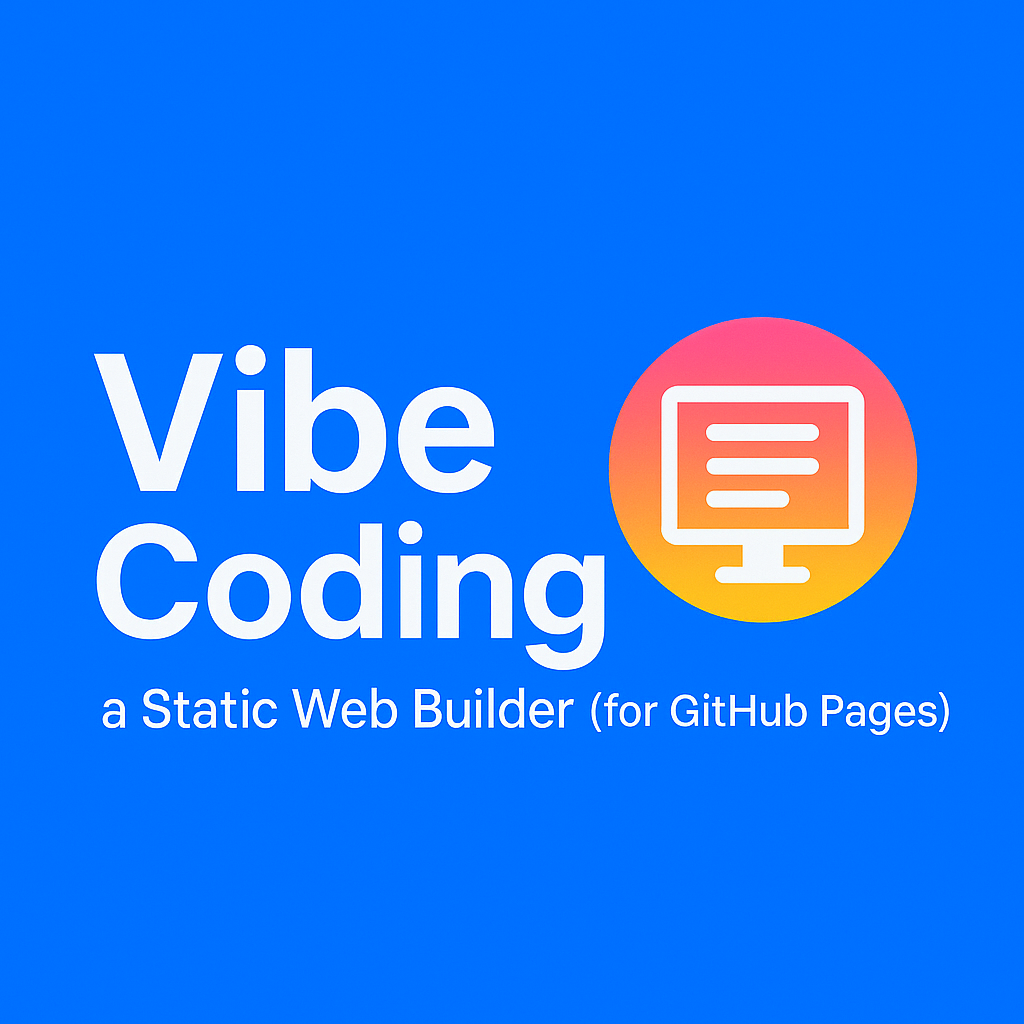
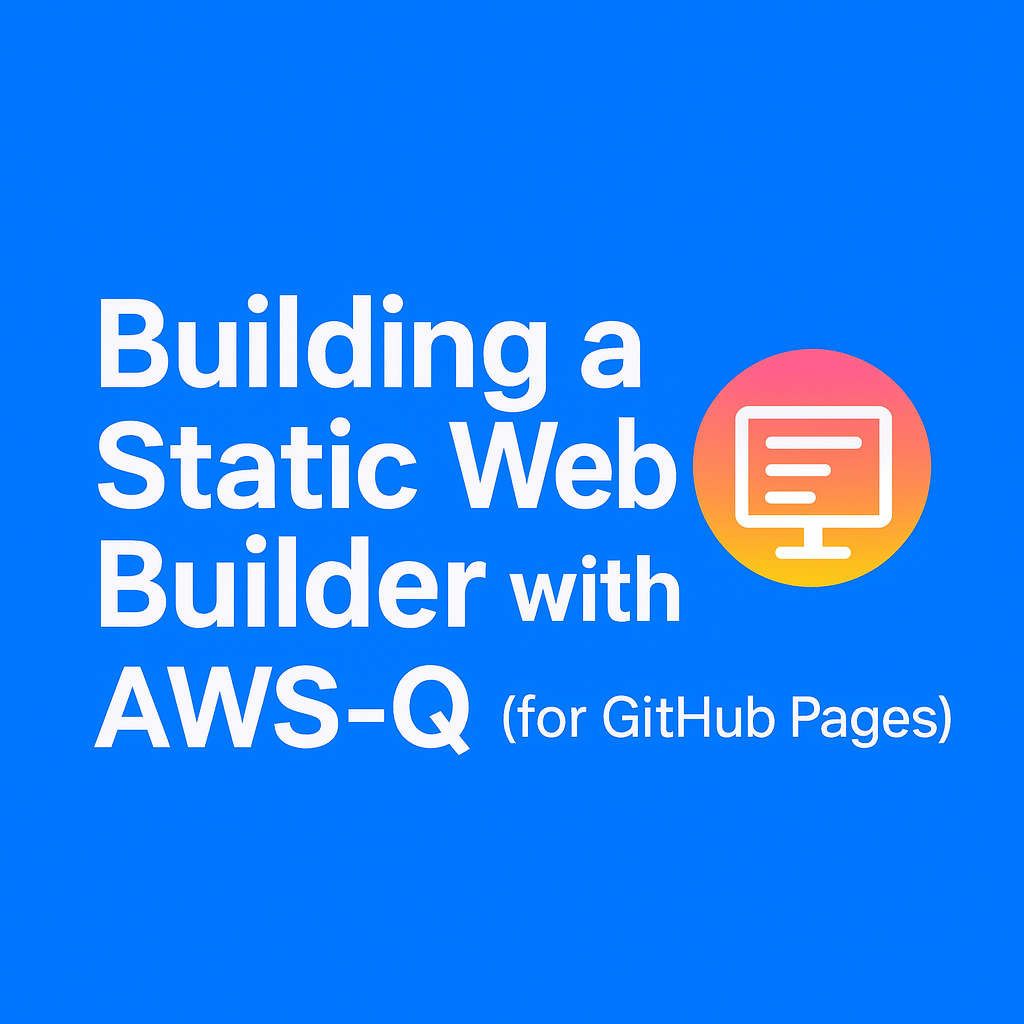
update blog title

Changed region(s): [[0.0938, 0.2812, 0.9375, 0.75]]

diff --git a/blogs/2025-08-12--stephen--Vibe-Coding-Web-Builder.html b/blogs/2025-08-12--stephen--Vibe-Coding-Web-Builder.html
@@ -3,7 +3,7 @@
 <head>
     <meta charset="UTF-8">
     <meta name="viewport" content="width=device-width, initial-scale=1.0">
-    <title>Vibe Coding a Static Web Builder (for Github Pages)</title>
+    <title>Building a Static Web Builder with AWS-Q (for Github Pages)</title>
     <meta name="description" content="Notes, projects, and updates from the Hilton crew.">
     <meta name="keywords" content="family, blog, updates, projects, adventures">
     <meta name="author" content="Stephen Hilton">
@@ -56,7 +56,7 @@
 <section class="markdown-section">
     <div class="markdown-content">
         
-        <h1 class="markdown-title">Vibe Coding a Static Web Builder (for Github Pages)</h1>
+        <h1 class="markdown-title">Building a Static Web Builder with AWS-Q (for Github Pages)</h1>
         
         
         
@@ -67,16 +67,17 @@
         <hr class="markdown-divider">
         
         
-        <p>I spent a Saturday afternoon building a tiny static webpage builder in Python with the newly released GPT-5. Version one (which you're reading now) is admittedly kind of ugly, but it also came together in just a few hours, and that’s the whole point: fast, clear progress beats perfect polish when you’re learning and shipping.</p>
-<p>After struggling thru the weirdness that was Jekyll and running into problem after problem, I decided - forget this, I'm going to see if GPT-5 can auto-generate a similar static webpage builder in less time than I burned floundering around Jekyll (spoiler: it can, but doesn't look as good). The concept was simple: read content from YAML/Markdown, run it through Jinja templates, and spit out clean HTML into a root/ folder you can serve with python -m http.server or upload to a github page. </p>
-<p>I started by writing a requirements document, getting the bare-bones on paper (er, digitally speaking) and having GPT-5 help me flesh out details and provide recommendations.  Once I was happy with the requirements, <strong>but before I submitted for code generation</strong> I asked GPT-5 what questions it had about the document... and it had many, eroding my previous happy-state.  After another 45mins of extending the document, I felt it was good enough to get started!</p>
-<p>I asked GPT-5 to sketch the skeleton: a sitegen package with build, clean, and init commands; a templates/ directory for base.html, home.html, blog_index.html, etc.; and a content/ directory where index.yaml, blogs.yaml, and people.yaml live alongside subfolders full of .md files. From there, it was a steady back-and-forth: I described how I wanted blog posts parsed (author and title from the filename), how the homepage hero should read CTAs, and how images in Markdown should resolve from a shared _images folder. GPT-5 handled the boilerplate fast.</p>
+        <p>I spent a Saturday afternoon building a tiny static webpage builder in Python with the new AWS-Q extension for VSCode. Version one (which you're reading now) could admittedly use some tweaking, but it also came together in just a few hours, and that’s the whole point: fast, clear progress beats perfect polish when you’re learning and shipping.</p>
+<p>After struggling thru the weirdness that was Jekyll and running into problem after problem, I decided, "if I'm. going to spend this much time, I should see if AWS-Q can just auto-generate a similar static webpage builder in less time than floundering around Jekyll" (spoiler: it can, but doesn't look as good). The concept was simple: read content from YAML/Markdown, run it through Jinja templates, and spit out clean HTML into a root/ folder you can serve with python -m http.server or upload to a github page. </p>
+<p>I started by writing a requirements document, getting the bare-bones on paper (er, digitally speaking) and having AWS-Q help me flesh out details and provide recommendations.  Once I was happy with the requirements, <strong>but before I submitted for code generation</strong> I asked AWS-Q what questions it had about the document... and it had many, eroding my previous happy-state.  After another 45mins of extending the document, I felt it was good enough to get started!</p>
+<p>I asked AWS-Q to sketch the skeleton: a sitegen package with build, clean, and init commands; a templates/ directory for base.html, home.html, blog_index.html, etc.; and a content/ directory where index.yaml, blogs.yaml, and people.yaml live alongside subfolders full of .md files. From there, it was a steady back-and-forth: I described how I wanted blog posts parsed (author and title from the filename), how the homepage hero should read CTAs, and how images in Markdown should resolve from a shared _images folder. AWS-Q handled the boilerplate fast.</p>
 <p>The first execution of the code had 1 error, and I had a copy/paste error (AI:1, human:1, tied game).  But after a little adjustment we were in business: index.html appeared, pages/blogs.html listed posts, and individual blog and people pages rendered from Markdown with a minimal header and footer.  We even got extras like sitemap.xml and robots.txt for free. </p>
-<p>Was it pretty? Not yet. The initial CSS looked like it had been borrowed from 2008, and the nav links huddled together like a single long word. But that’s the magic of a quick prototype—you can see the whole loop: schema → template → output. Now the improvements are obvious.</p>
-<p>Is this production-ready? Not yet. But in a couple hours, I went from nothing to a custom static generator I understand end-to-end. I also have learnings on how I'll structure the v2 (a project for a future Saturday): I'll likely get more prescriptive on the yaml, collapse many of the custom section types into fewer, more flexible options, and layer in more assumptions to comb out complexity. This is for simple, static, family type websites.   After that, I'm thinking MCP server!</p>
-<p>For now, I’m calling it a win. The first attempt may be ugly, but I did generate it faster than struggling with Jekyll.<br />
-Let me know what you think:</p>
-<p>https://github.com/Stephen-Hilton/familyhilton.com</p>
+<p>Was it pretty? Meh. The initial CSS looked like it had been borrowed from 2010, and the nav link hover-overs are a weird yellow. But that’s the magic of a quick prototype—you can see the whole loop: schema → template → output. Now the improvements are obvious.</p>
+<p>Production-ready isn't the point - in a couple hours, I went from nothing to a custom static generator I understand end-to-end. I also have learnings on how I'll structure the v2 (a project for a future Saturday): I'll likely expand yaml just a bit, collapse many of the custom section types into fewer, more flexible options, and layer in more assumptions to comb out complexity. This is for simple, static, family type websites, so simple is better.   After that, I'm thinking MCP server!</p>
+<p>This was initially deployed on Github pages, but with very little effort (and some help from AWS-Q in console) I was able to stand up the same static site on AWS.</p>
+<p>For now, I’m calling it a win. The first attempt may be ugly, but I was able to code it faster than struggling through Jekyll.  Let me know what you think:</p>
+<p>https://familyhilton.com (Github Pages)
+https://hilton.zone (AWS-S3)</p>
     </div>
 </section>
     </main>

diff --git a/blogs.html b/blogs.html
@@ -107,12 +107,12 @@
             <a href="blogs/2025-08-12--stephen--Vibe-Coding-Web-Builder.html" class="card-link">
                 
                 <div class="card-image">
-                    <img src="/src/images/2025-08-12--stephen--Vibe-Coding-Web-Builder.png" alt="Vibe Coding a Static Web Builder (for Github Pages)" class="card-img">
+                    <img src="/src/images/2025-08-12--stephen--Vibe-Coding-Web-Builder.png" alt="Building a Static Web Builder with AWS-Q (for Github Pages)" class="card-img">
                 </div>
                 
                 
                 <div class="card-content">
-                    <h3 class="card-title">Vibe Coding a Static Web Builder (for Github Pages)</h3>
+                    <h3 class="card-title">Building a Static Web Builder with AWS-Q (for Github Pages)</h3>
                     
                     <p class="card-description">Notes, projects, and updates from the Hilton crew.</p>
                     
@@ -177,12 +177,12 @@
             <a href="blogs/2025-08-12--stephen--Vibe-Coding-Web-Builder.html" class="tile-link">
                 
                 <div class="tile-image">
-                    <img src="/src/images/2025-08-12--stephen--Vibe-Coding-Web-Builder.png" alt="Vibe Coding a Static Web Builder (for Github Pages)" class="tile-img">
+                    <img src="/src/images/2025-08-12--stephen--Vibe-Coding-Web-Builder.png" alt="Building a Static Web Builder with AWS-Q (for Github Pages)" class="tile-img">
                 </div>
                 
                 
                 <div class="tile-content">
-                    <h3 class="tile-title">Vibe Coding a Static Web Builder (for Github Pages)</h3>
+                    <h3 class="tile-title">Building a Static Web Builder with AWS-Q (for Github Pages)</h3>
                     <div class="tile-meta">
                         
                         <span class="tile-author">Stephen Hilton</span>

diff --git a/index.html b/index.html
@@ -167,12 +167,12 @@ We’re excited to share our journey with you!</p>
             <a href="blogs/2025-08-12--stephen--Vibe-Coding-Web-Builder.html" class="card-link">
                 
                 <div class="card-image">
-                    <img src="/src/images/2025-08-12--stephen--Vibe-Coding-Web-Builder.png" alt="Vibe Coding a Static Web Builder (for Github Pages)" class="card-img">
+                    <img src="/src/images/2025-08-12--stephen--Vibe-Coding-Web-Builder.png" alt="Building a Static Web Builder with AWS-Q (for Github Pages)" class="card-img">
                 </div>
                 
                 
                 <div class="card-content">
-                    <h3 class="card-title">Vibe Coding a Static Web Builder (for Github Pages)</h3>
+                    <h3 class="card-title">Building a Static Web Builder with AWS-Q (for Github Pages)</h3>
                     
                     <p class="card-description">Notes, projects, and updates from the Hilton crew.</p>
                     

diff --git a/blogs/2025-08-12--stephen--Vibe-Coding-Web-Builder.md b/blogs/2025-08-12--stephen--Vibe-Coding-Web-Builder.md
@@ -1,5 +1,5 @@
 --- 
-  - title: "Vibe Coding a Static Web Builder (for Github Pages)"  # title of the page, also the browser tab title
+  - title: "Building a Static Web Builder with AWS-Q (for Github Pages)"  # title of the page, also the browser tab title
   - description: "Notes, projects, and updates from the Hilton crew."  # description / subtitle
   - image: "2025-08-12--stephen--Vibe-Coding-Web-Builder.png" # image file, as found in /src/images/ folder
   - author: "Stephen Hilton" # author of the page, if applicable (should appear in footer)
@@ -9,21 +9,23 @@
 ---
 
 
-I spent a Saturday afternoon building a tiny static webpage builder in Python with the newly released GPT-5. Version one (which you're reading now) is admittedly kind of ugly, but it also came together in just a few hours, and that’s the whole point: fast, clear progress beats perfect polish when you’re learning and shipping.
+I spent a Saturday afternoon building a tiny static webpage builder in Python with the new AWS-Q extension for VSCode. Version one (which you're reading now) could admittedly use some tweaking, but it also came together in just a few hours, and that’s the whole point: fast, clear progress beats perfect polish when you’re learning and shipping.
 
-After struggling thru the weirdness that was Jekyll and running into problem after problem, I decided - forget this, I'm going to see if GPT-5 can auto-generate a similar static webpage builder in less time than I burned floundering around Jekyll (spoiler: it can, but doesn't look as good). The concept was simple: read content from YAML/Markdown, run it through Jinja templates, and spit out clean HTML into a root/ folder you can serve with python -m http.server or upload to a github page. 
+After struggling thru the weirdness that was Jekyll and running into problem after problem, I decided, "if I'm. going to spend this much time, I should see if AWS-Q can just auto-generate a similar static webpage builder in less time than floundering around Jekyll" (spoiler: it can, but doesn't look as good). The concept was simple: read content from YAML/Markdown, run it through Jinja templates, and spit out clean HTML into a root/ folder you can serve with python -m http.server or upload to a github page. 
 
-I started by writing a requirements document, getting the bare-bones on paper (er, digitally speaking) and having GPT-5 help me flesh out details and provide recommendations.  Once I was happy with the requirements, **but before I submitted for code generation** I asked GPT-5 what questions it had about the document... and it had many, eroding my previous happy-state.  After another 45mins of extending the document, I felt it was good enough to get started!
+I started by writing a requirements document, getting the bare-bones on paper (er, digitally speaking) and having AWS-Q help me flesh out details and provide recommendations.  Once I was happy with the requirements, **but before I submitted for code generation** I asked AWS-Q what questions it had about the document... and it had many, eroding my previous happy-state.  After another 45mins of extending the document, I felt it was good enough to get started!
 
-I asked GPT-5 to sketch the skeleton: a sitegen package with build, clean, and init commands; a templates/ directory for base.html, home.html, blog_index.html, etc.; and a content/ directory where index.yaml, blogs.yaml, and people.yaml live alongside subfolders full of .md files. From there, it was a steady back-and-forth: I described how I wanted blog posts parsed (author and title from the filename), how the homepage hero should read CTAs, and how images in Markdown should resolve from a shared _images folder. GPT-5 handled the boilerplate fast.
+I asked AWS-Q to sketch the skeleton: a sitegen package with build, clean, and init commands; a templates/ directory for base.html, home.html, blog_index.html, etc.; and a content/ directory where index.yaml, blogs.yaml, and people.yaml live alongside subfolders full of .md files. From there, it was a steady back-and-forth: I described how I wanted blog posts parsed (author and title from the filename), how the homepage hero should read CTAs, and how images in Markdown should resolve from a shared _images folder. AWS-Q handled the boilerplate fast.
 
 The first execution of the code had 1 error, and I had a copy/paste error (AI:1, human:1, tied game).  But after a little adjustment we were in business: index.html appeared, pages/blogs.html listed posts, and individual blog and people pages rendered from Markdown with a minimal header and footer.  We even got extras like sitemap.xml and robots.txt for free. 
 
-Was it pretty? Not yet. The initial CSS looked like it had been borrowed from 2008, and the nav links huddled together like a single long word. But that’s the magic of a quick prototype—you can see the whole loop: schema → template → output. Now the improvements are obvious.
+Was it pretty? Meh. The initial CSS looked like it had been borrowed from 2010, and the nav link hover-overs are a weird yellow. But that’s the magic of a quick prototype—you can see the whole loop: schema → template → output. Now the improvements are obvious.
 
-Is this production-ready? Not yet. But in a couple hours, I went from nothing to a custom static generator I understand end-to-end. I also have learnings on how I'll structure the v2 (a project for a future Saturday): I'll likely get more prescriptive on the yaml, collapse many of the custom section types into fewer, more flexible options, and layer in more assumptions to comb out complexity. This is for simple, static, family type websites.   After that, I'm thinking MCP server!
+Production-ready isn't the point - in a couple hours, I went from nothing to a custom static generator I understand end-to-end. I also have learnings on how I'll structure the v2 (a project for a future Saturday): I'll likely expand yaml just a bit, collapse many of the custom section types into fewer, more flexible options, and layer in more assumptions to comb out complexity. This is for simple, static, family type websites, so simple is better.   After that, I'm thinking MCP server!
 
-For now, I’m calling it a win. The first attempt may be ugly, but I did generate it faster than struggling with Jekyll.  
-Let me know what you think:
+This was initially deployed on Github pages, but with very little effort (and some help from AWS-Q in console) I was able to stand up the same static site on AWS.
 
-https://github.com/Stephen-Hilton/familyhilton.com
+For now, I’m calling it a win. The first attempt may be ugly, but I was able to code it faster than struggling through Jekyll.  Let me know what you think:
+
+https://familyhilton.com (Github Pages)
+https://hilton.zone (AWS-S3)
